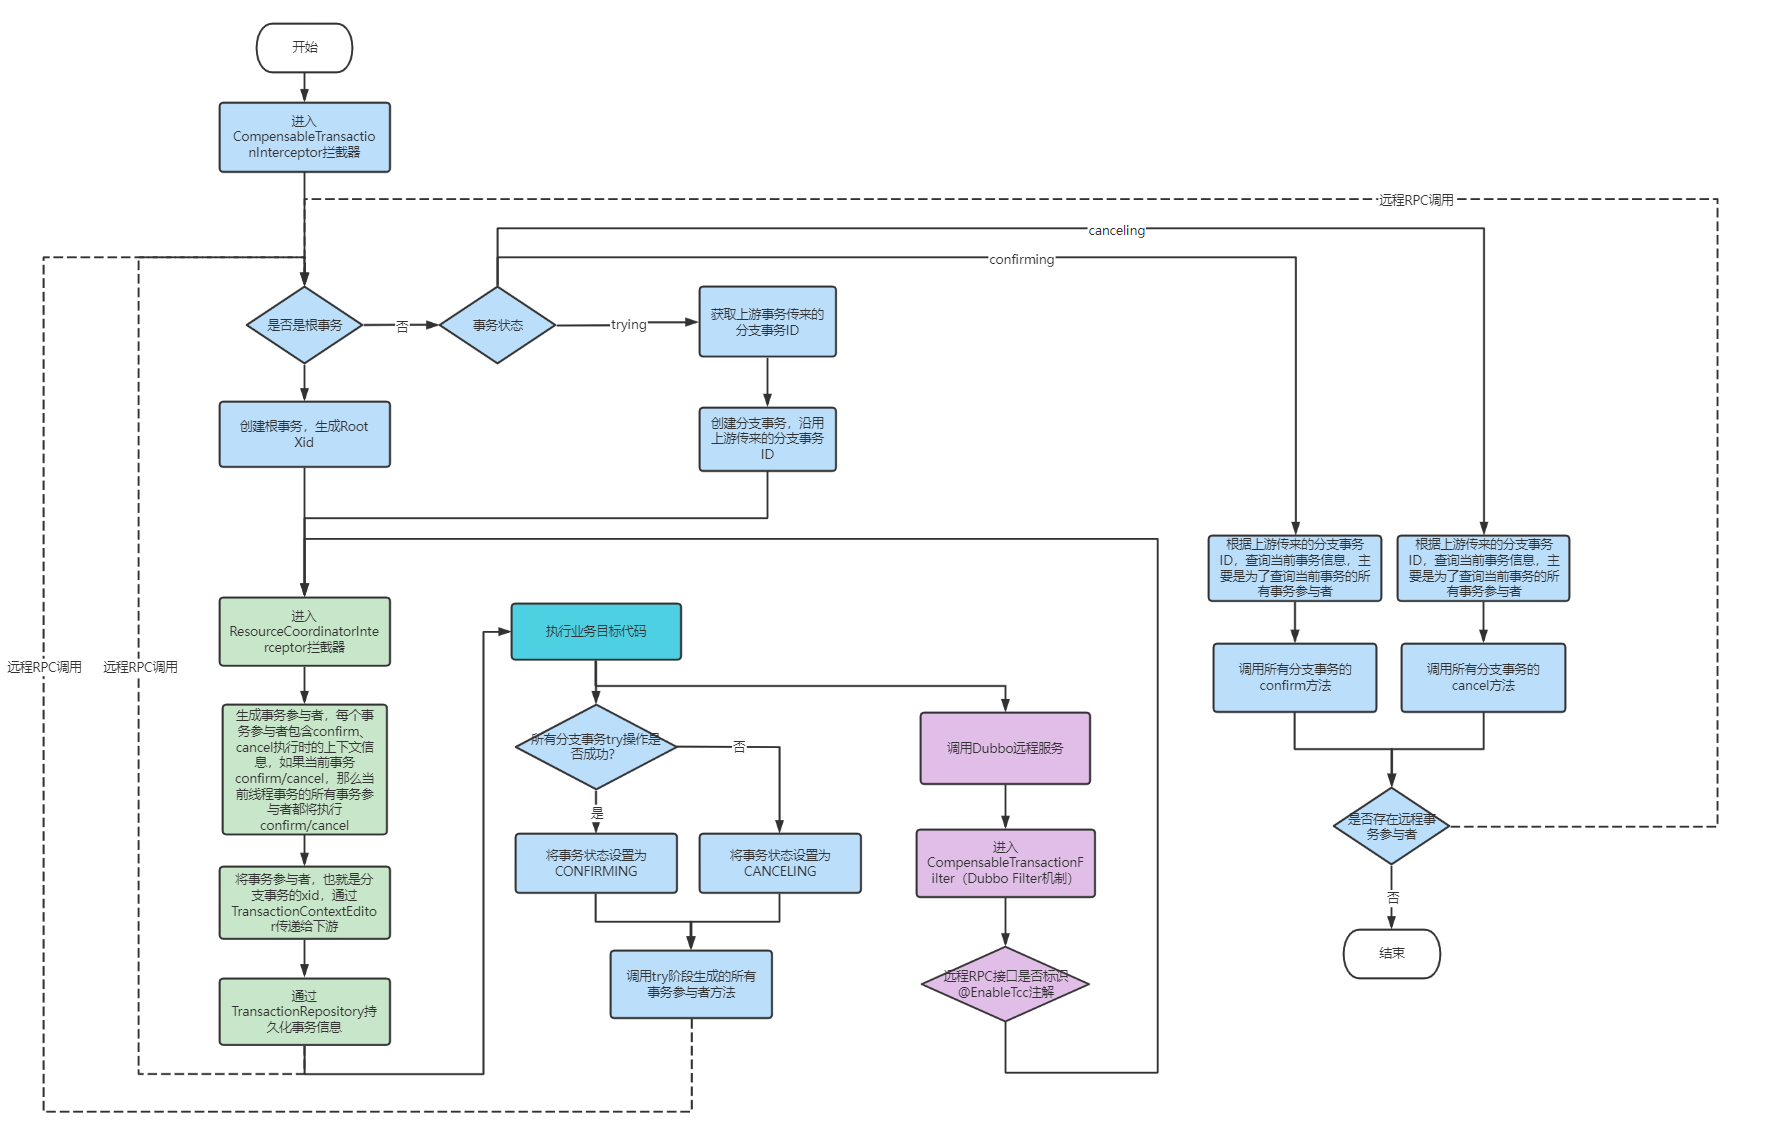
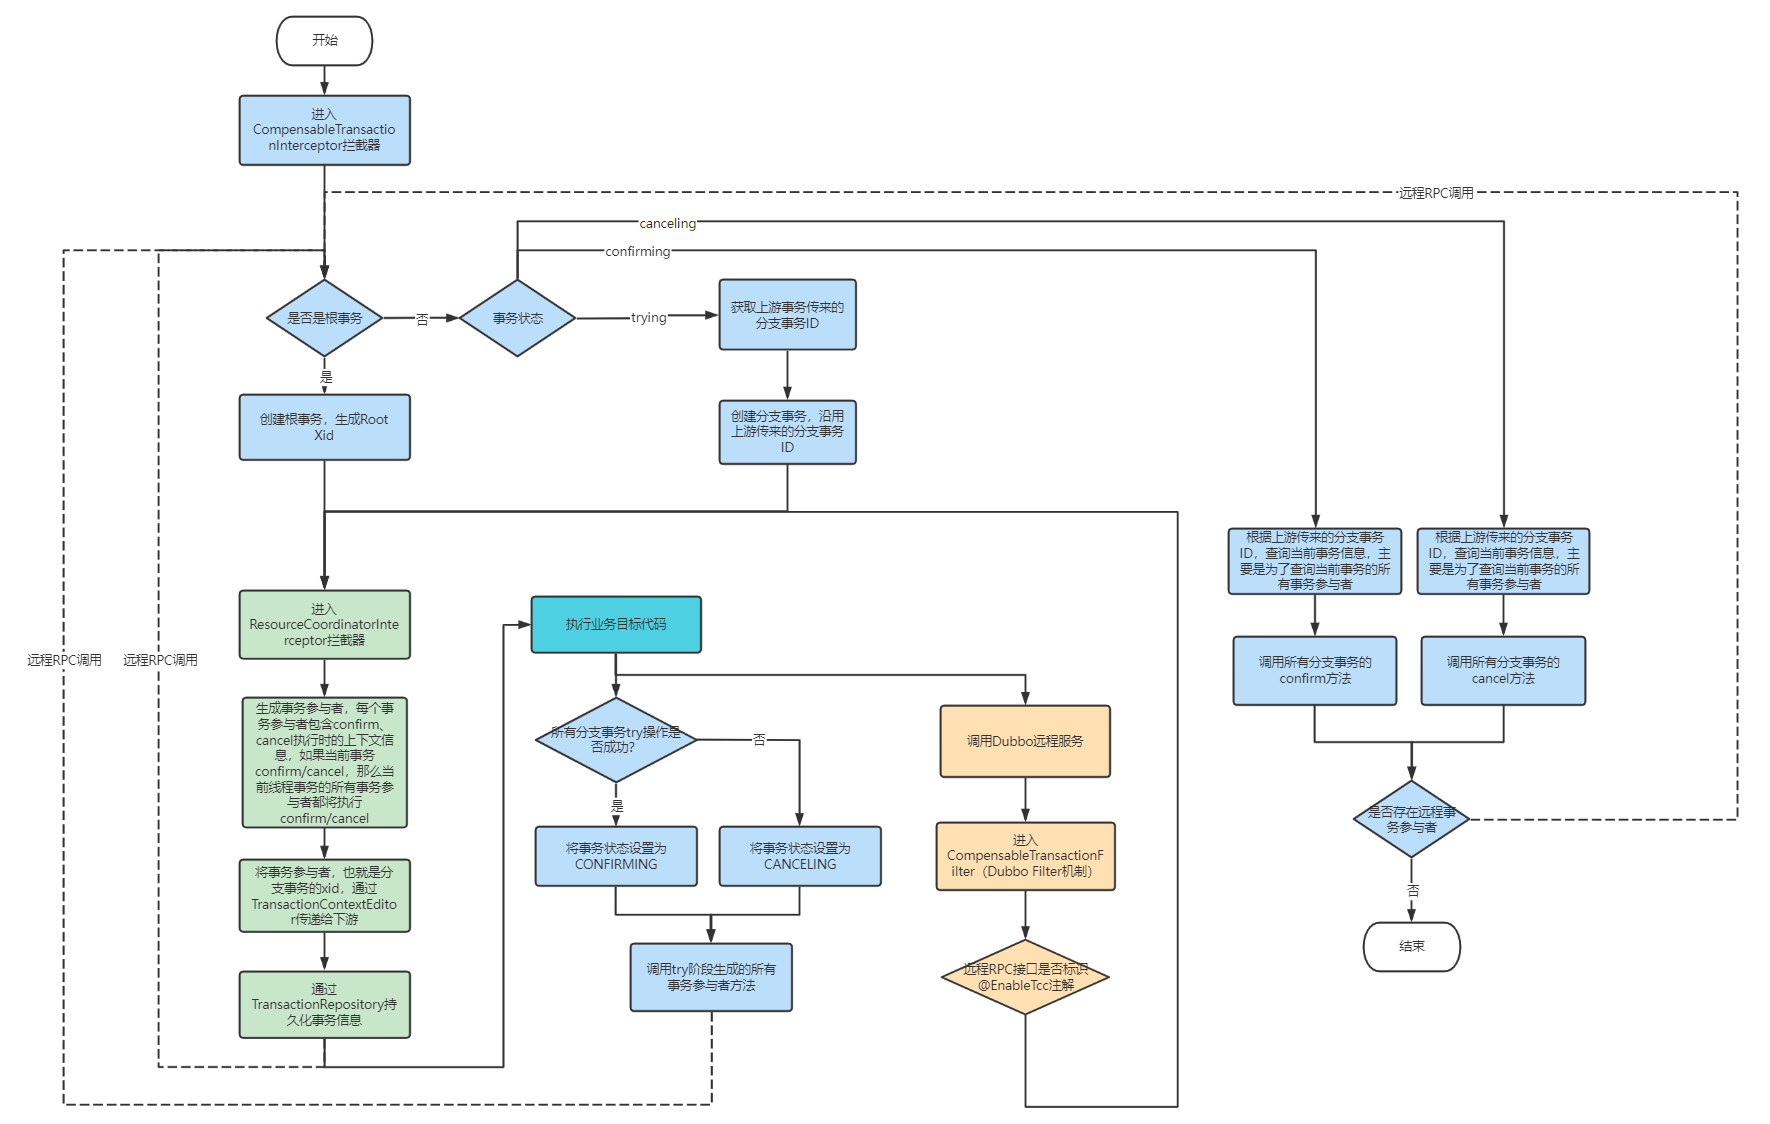
修改笔记：tcc-transaction源码分析

Changed region(s): [[0.0, 0.0, 0.9644, 0.9653], [0.3733, 0.9653, 0.4044, 0.9964], [0.0311, 0.9653, 0.0622, 0.9964]]

diff --git a/分布式与微服务/分布式事务/tcc-transaction/subfile/_3tcc-transaction源码分析.md b/分布式与微服务/分布式事务/tcc-transaction/subfile/_3tcc-transaction源码分析.md
@@ -1,7 +1,36 @@
 # tcc-transaction源码分析
 
-
-本文主要介绍TCC的原理，以及从代码的角度上分析如何实现的；不涉及具体使用示例。本文通过分析[tcc-transaction](https://link.juejin.cn/?target=https%3A%2F%2Fgithub.com%2Fchangmingxie%2Ftcc-transaction)源码带大家了解TCC分布式事务的实现原理。
+- [tcc-transaction源码分析](#tcc-transaction源码分析)
+  - [一. 概述](#一-概述)
+    - [1.1 项目模块](#11-项目模块)
+    - [1.2 tcc-transaction中的概念](#12-tcc-transaction中的概念)
+  - [二. TCC-Transaction 原理](#二-tcc-transaction-原理)
+  - [三. 事务与参与者](#三-事务与参与者)
+    - [3.1 事务](#31-事务)
+    - [3.2 参与者](#32-参与者)
+  - [四. 事务管理器](#四-事务管理器)
+    - [4.1 发起根事务](#41-发起根事务)
+    - [4.2 创建分支事务](#42-创建分支事务)
+    - [4.3 获取分支事务](#43-获取分支事务)
+    - [4.4 提交事务](#44-提交事务)
+    - [4.5 回滚事务](#45-回滚事务)
+    - [4.6 添加事务到事务管理器](#46-添加事务到事务管理器)
+  - [五. 事务拦截器](#五-事务拦截器)
+    - [5.1 Compensable](#51-compensable)
+    - [5.2 事务拦截器](#52-事务拦截器)
+    - [5.3 资源协调者拦截器](#53-资源协调者拦截器)
+  - [六. 事务存储器](#六-事务存储器)
+    - [6.1 序列化](#61-序列化)
+    - [6.2 存储器](#62-存储器)
+  - [七. 事务恢复](#七-事务恢复)
+    - [7.1 事务重试配置](#71-事务重试配置)
+    - [7.2 事务重试JOB](#72-事务重试job)
+    - [7.3 异常事务恢复](#73-异常事务恢复)
+  - [八. Dubbo实现](#八-dubbo实现)
+    - [8.1 DubboTransactionContextEditor](#81-dubbotransactioncontexteditor)
+    - [8.2 CompensableTransactionFilter](#82-compensabletransactionfilter)
+  - [九. 总结](#九-总结)
+  本文主要介绍TCC的原理，以及从代码的角度上分析如何实现的；不涉及具体使用示例。本文通过分析[tcc-transaction](https://link.juejin.cn/?target=https%3A%2F%2Fgithub.com%2Fchangmingxie%2Ftcc-transaction)源码带大家了解TCC分布式事务的实现原理。
 
 需要注意的是，本文所有代码都基于`master-1.7.x`分支，不同版本的源码会存在一定的差异。完整代码注释请参考：[bigcoder84/tcc-transaction](https://github.com/bigcoder84/tcc-transaction)
 
@@ -1793,7 +1822,13 @@ public class CompensableTransactionFilter implements Filter {
 ![](../images/10.png)
 TCC依赖于事务记录，在开始TCC事务前标记创建此记录，这样在服务宕机等意外情况下，还能通过JOB保证事务状态最终恢复一致性。因为存在失败重试的逻辑，所以cancel、commit方法必须实现幂等。其实在分布式开发中，凡是涉及到写操作的地方都应该实现幂等。
 
-事务拦截器和资源协调者拦截器协作完成TCC事务：
+事务拦截器和资源协调者拦截器以及Dubbo Filter协作生成完整事务树：
+
+![](../images/23.png)
+
+其中“事务拦截器”主要负责生成根事务/分支事务，而“资源协调者拦截器”主要负责为事务生成事务参与者，在资源协调者切面中以及在调用Dubbo RPC服务之前都会调用“资源协调者拦截器”为事务生成事务参与者，并持久化事务信息。当事务进行confirm/camcel操作时，会根据事务ID，查询到当前事务的所有事务参与者信息，并统一进行confirm/cancel操作。
+
+详细的代码流程如下：
 
 ![](../images/22.png)
 
